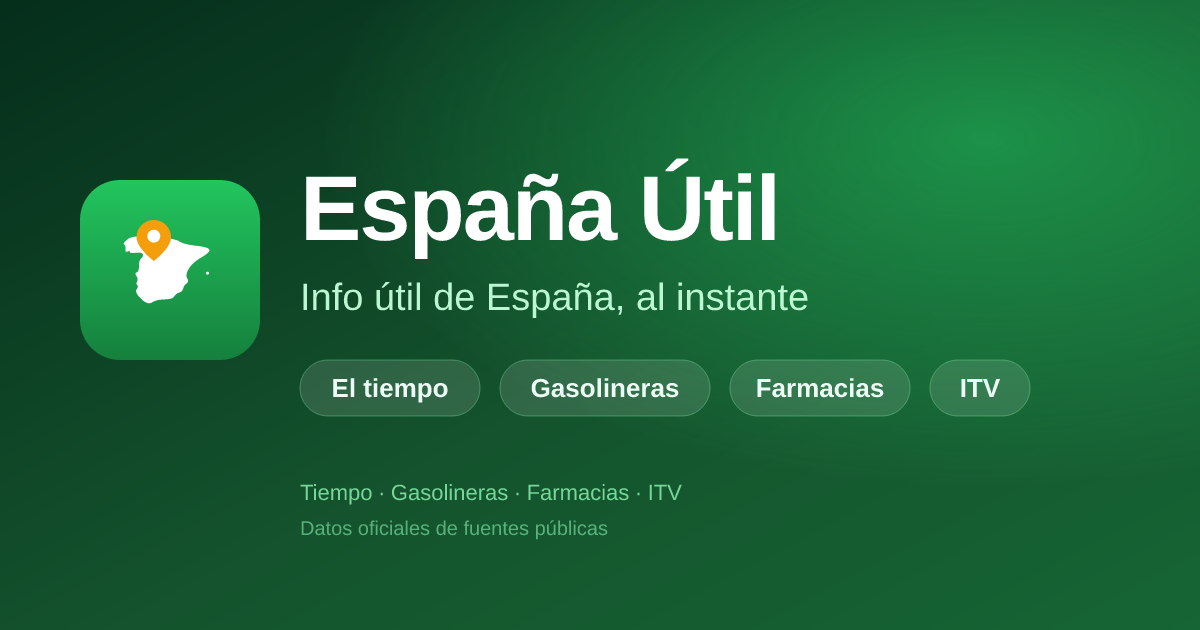
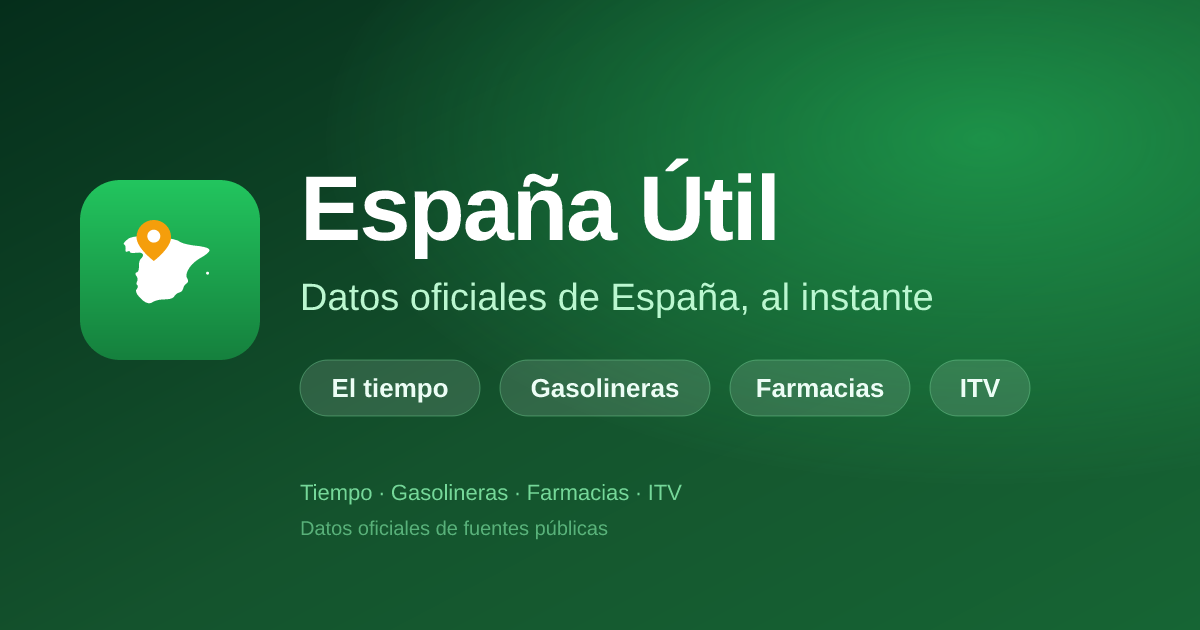
feat(marca): nuevo lema "Datos oficiales de España, al instante" (#105)
El lema anterior ("Info útil de España al instante") era redundante con el
nombre nuevo de la marca (España Útil). Se sustituye por uno que remarca la
confianza (fuentes oficiales) y la inmediatez, sin repetir "útil".

Cambiado en los 7 sitios donde vivía: título de la home, og:site/subtítulo,
cabecera (mantiene "· sin registro y gratis"), JSON-LD alternateName y los
og:image:alt. og.png regenerado.

Changed region(s): [[0.2467, 0.4524, 0.7708, 0.5127]]

diff --git a/src/html/landing.ts b/src/html/landing.ts
@@ -89,7 +89,7 @@ export function buildLandingPage(
   try { origin = new URL(reqUrl).origin } catch { /* fallback */ }
 
   const canonical = origin + '/'
-  const title = 'España Útil · Info útil de España al instante'
+  const title = 'España Útil · Datos oficiales de España al instante'
   const desc = 'Portal con servicios esenciales en España: el tiempo por municipio (AEMET), gasolineras con precios oficiales en tiempo real, farmacias de guardia y estaciones de ITV. Sin registro y gratis.'
   const logoUrl = origin + '/static/logo.svg'
 
@@ -100,7 +100,7 @@ export function buildLandingPage(
       {
         '@type': 'WebSite',
         name: 'España Útil',
-        alternateName: 'España Útil — Info útil de España',
+        alternateName: 'España Útil — Datos oficiales de España',
         url: origin,
         description: desc,
         inLanguage: 'es-ES',

diff --git a/src/html/farmacias.ts b/src/html/farmacias.ts
@@ -67,7 +67,7 @@ export function buildFarmaciasPage(
   <meta property="og:image" content="${esc(origin)}/static/og.png" />
   <meta property="og:image:width" content="1200" />
   <meta property="og:image:height" content="630" />
-  <meta property="og:image:alt" content="España Útil · info útil de España al instante" />
+  <meta property="og:image:alt" content="España Útil · datos oficiales de España al instante" />
   <meta name="twitter:card" content="summary_large_image" />
   <meta name="twitter:title" content="${esc(title)}" />
   <meta name="twitter:description" content="${esc(desc)}" />

diff --git a/src/html/masthead.ts b/src/html/masthead.ts
@@ -51,7 +51,7 @@ export function mastheadHtml(active: SeccionActiva = null, opts: { brandAsH1?: b
     + '<img src="/static/logo.svg" alt="" class="mh-logo" width="44" height="44" decoding="async" />'
     + titulo
     + '</a>'
-    + '<p class="mh-tag">Info útil de España al instante · sin registro y gratis</p>'
+    + '<p class="mh-tag">Datos oficiales de España al instante · sin registro y gratis</p>'
     + '</div>'
     + '<nav class="mh-nav" aria-label="Secciones">'
     + item('/tiempo/', 'tiempo', 'El tiempo')

diff --git a/src/html/seo.ts b/src/html/seo.ts
@@ -8,7 +8,7 @@
 //   rich result más frecuente y barato: Google puede pintar la ruta
 //   Inicio > Sección > Provincia > Municipio bajo el título en los resultados.
 
-const OG_IMG_ALT = 'España Útil · info útil de España al instante'
+const OG_IMG_ALT = 'España Útil · datos oficiales de España al instante'
 
 /** Bloque Open Graph + Twitter de imagen social. `origin` = "https://host". */
 export function ogSocialTags(origin: string): string {
